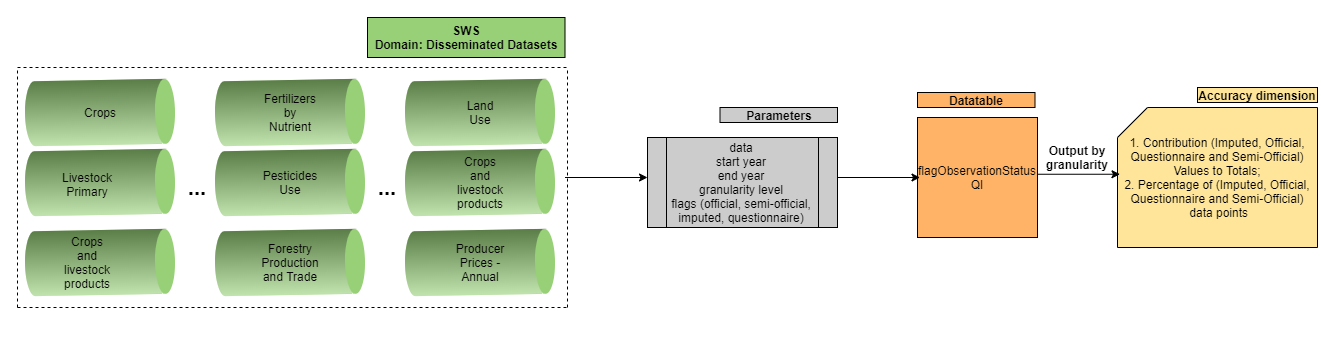
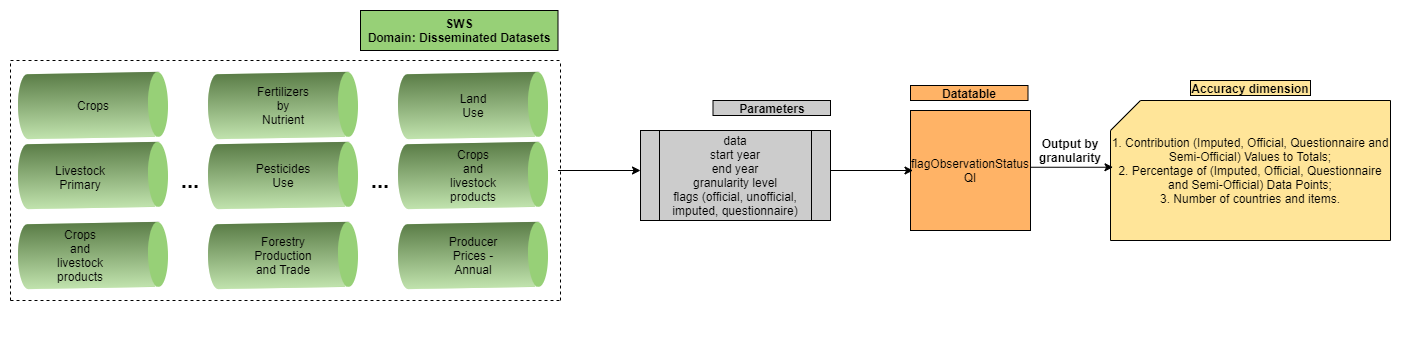
added/updated workflow for reliability/accuracy

Changed region(s): [[0.0, 0.0287, 1.0, 0.8883]]

diff --git a/docs/sws-resources.html b/docs/sws-resources.html
@@ -137,6 +137,7 @@
 <li class="chapter" data-level="" data-path="sws-resources.html"><a href="sws-resources.html#mapping-aggregate-groups---trade-crops-livestock"><i class="fa fa-check"></i>Mapping Aggregate Groups - Trade Crops Livestock</a></li>
 <li class="chapter" data-level="" data-path="sws-resources.html"><a href="sws-resources.html#mapping-aggregate-groups---trade-live-animals"><i class="fa fa-check"></i>Mapping Aggregate Groups - Trade Live Animals</a></li>
 <li class="chapter" data-level="" data-path="sws-resources.html"><a href="sws-resources.html#mapping-aggregate-groups---forestry-production-and-trade"><i class="fa fa-check"></i>Mapping Aggregate Groups - Forestry Production and Trade</a></li>
+<li class="chapter" data-level="" data-path="sws-resources.html"><a href="sws-resources.html#mapping-aggregate-groups---fisheries"><i class="fa fa-check"></i>Mapping Aggregate Groups - Fisheries</a></li>
 <li class="chapter" data-level="" data-path="sws-resources.html"><a href="sws-resources.html#mapping-aggregate-groups---fertilizers-nutrient"><i class="fa fa-check"></i>Mapping Aggregate Groups - Fertilizers Nutrient</a></li>
 <li class="chapter" data-level="" data-path="sws-resources.html"><a href="sws-resources.html#mapping-aggregate-groups---pesticides-trade"><i class="fa fa-check"></i>Mapping Aggregate Groups - Pesticides Trade</a></li>
 <li class="chapter" data-level="" data-path="sws-resources.html"><a href="sws-resources.html#mapping-aggregate-groups---pesticides-trade-1"><i class="fa fa-check"></i>Mapping Aggregate Groups - Pesticides Trade</a></li>
@@ -1033,6 +1034,79 @@ Var code in the SWS
 </tbody>
 </table>
 </div>
+<div id="mapping-aggregate-groups---fisheries" class="section level2 unnumbered">
+<h2 class="unnumbered">Mapping Aggregate Groups - Fisheries</h2>
+<ul>
+<li><strong>Datatable:</strong> <code>Mapping Aggregate Groups - Fisheries</code></li>
+<li><strong>Domain:</strong> Quality Indicators</li>
+<li><strong>Usage:</strong> A data table with the area and item groups of Fisheries.</li>
+</ul>
+<table class="table table" style="font-size: 14px; margin-left: auto; margin-right: auto; margin-left: auto; margin-right: auto;">
+<caption style="font-size: initial !important;">
+<span id="tab:mappingAggGroupsFisheries">Table 9: </span>Columns description of the data table: Mapping Aggregate Groups - Fisheries
+</caption>
+<thead>
+<tr>
+<th style="text-align:left;background-color: #5191c8 !important;position: sticky; top:0; background-color: #FFFFFF;">
+Field
+</th>
+<th style="text-align:left;background-color: #5191c8 !important;position: sticky; top:0; background-color: #FFFFFF;">
+Description
+</th>
+</tr>
+</thead>
+<tbody>
+<tr>
+<td style="text-align:left;">
+Domain Name
+</td>
+<td style="text-align:left;">
+Name of the domain
+</td>
+</tr>
+<tr>
+<td style="text-align:left;">
+Var Type
+</td>
+<td style="text-align:left;">
+Type of var: area or item
+</td>
+</tr>
+<tr>
+<td style="text-align:left;">
+Var Group Code
+</td>
+<td style="text-align:left;">
+Var group code in the dissemination platform
+</td>
+</tr>
+<tr>
+<td style="text-align:left;">
+Var Code
+</td>
+<td style="text-align:left;">
+Var code in the dissemination platform
+</td>
+</tr>
+<tr>
+<td style="text-align:left;">
+Var Group Name
+</td>
+<td style="text-align:left;">
+Var group name in the dissemination platform
+</td>
+</tr>
+<tr>
+<td style="text-align:left;">
+Var Name
+</td>
+<td style="text-align:left;">
+Var name in the dissemination platform
+</td>
+</tr>
+</tbody>
+</table>
+</div>
 <div id="mapping-aggregate-groups---fertilizers-nutrient" class="section level2 unnumbered">
 <h2 class="unnumbered">Mapping Aggregate Groups - Fertilizers Nutrient</h2>
 <ul>
@@ -1042,7 +1116,7 @@ Var code in the SWS
 </ul>
 <table class="table table" style="font-size: 14px; margin-left: auto; margin-right: auto; margin-left: auto; margin-right: auto;">
 <caption style="font-size: initial !important;">
-<span id="tab:mappingAggGroupsFertNutr">Table 9: </span>Columns description of the data table: Mapping Aggregate Groups - Fertilizers Nutrient
+<span id="tab:mappingAggGroupsFertNutr">Table 10: </span>Columns description of the data table: Mapping Aggregate Groups - Fertilizers Nutrient
 </caption>
 <thead>
 <tr>
@@ -1161,7 +1235,7 @@ Var code in the SWS
 </ul>
 <table class="table table" style="font-size: 14px; margin-left: auto; margin-right: auto; margin-left: auto; margin-right: auto;">
 <caption style="font-size: initial !important;">
-<span id="tab:mappingAggGroupsPestTrade">Table 10: </span>Columns description of the data table: Mapping Aggregate Groups - Pesticides Trade
+<span id="tab:mappingAggGroupsPestTrade">Table 11: </span>Columns description of the data table: Mapping Aggregate Groups - Pesticides Trade
 </caption>
 <thead>
 <tr>
@@ -1280,7 +1354,7 @@ Var code in the SWS
 </ul>
 <table class="table table" style="font-size: 14px; margin-left: auto; margin-right: auto; margin-left: auto; margin-right: auto;">
 <caption style="font-size: initial !important;">
-<span id="tab:mappingAggGroupsPestUse">Table 11: </span>Columns description of the data table: Mapping Aggregate Groups - Pesticides Use
+<span id="tab:mappingAggGroupsPestUse">Table 12: </span>Columns description of the data table: Mapping Aggregate Groups - Pesticides Use
 </caption>
 <thead>
 <tr>
@@ -1399,7 +1473,7 @@ Var code in the SWS
 </ul>
 <table class="table table" style="font-size: 14px; margin-left: auto; margin-right: auto; margin-left: auto; margin-right: auto;">
 <caption style="font-size: initial !important;">
-<span id="tab:mappingAggGroupsLandUse">Table 12: </span>Columns description of the data table: Mapping Aggregate Groups - Land Use
+<span id="tab:mappingAggGroupsLandUse">Table 13: </span>Columns description of the data table: Mapping Aggregate Groups - Land Use
 </caption>
 <thead>
 <tr>
@@ -1518,7 +1592,7 @@ Var code in the SWS
 </ul>
 <table class="table table" style="font-size: 14px; margin-left: auto; margin-right: auto; margin-left: auto; margin-right: auto;">
 <caption style="font-size: initial !important;">
-<span id="tab:mappingAggGroupsPrices">Table 13: </span>Columns description of the data table: Mapping Aggregate Groups - Prices
+<span id="tab:mappingAggGroupsPrices">Table 14: </span>Columns description of the data table: Mapping Aggregate Groups - Prices
 </caption>
 <thead>
 <tr>
@@ -1637,7 +1711,7 @@ Var code in the SWS
 </ul>
 <table class="table table" style="font-size: 14px; margin-left: auto; margin-right: auto; margin-left: auto; margin-right: auto;">
 <caption style="font-size: initial !important;">
-<span id="tab:flagObservationStatus">Table 14: </span>Columns description of the data table: flagObservationStatus - QI
+<span id="tab:flagObservationStatus">Table 15: </span>Columns description of the data table: flagObservationStatus - QI
 </caption>
 <thead>
 <tr>
@@ -1686,7 +1760,7 @@ Type of flag (e.g. official, imputed … )
 </ul>
 <table class="table table" style="font-size: 14px; margin-left: auto; margin-right: auto; margin-left: auto; margin-right: auto;">
 <caption style="font-size: initial !important;">
-<span id="tab:datasetCodeListQI">Table 15: </span>Columns description of the data table: Dataset Code List QI
+<span id="tab:datasetCodeListQI">Table 16: </span>Columns description of the data table: Dataset Code List QI
 </caption>
 <thead>
 <tr>
@@ -1783,7 +1857,7 @@ Quality Indicators name
 </ul>
 <table class="table table" style="font-size: 14px; margin-left: auto; margin-right: auto; margin-left: auto; margin-right: auto;">
 <caption style="font-size: initial !important;">
-<span id="tab:qiDimensions">Table 16: </span>Columns description of the data table: QI Dimensions
+<span id="tab:qiDimensions">Table 17: </span>Columns description of the data table: QI Dimensions
 </caption>
 <thead>
 <tr>

diff --git a/docs/faoswsQualityIndicators.html b/docs/faoswsQualityIndicators.html
@@ -137,6 +137,7 @@
 <li class="chapter" data-level="" data-path="sws-resources.html"><a href="sws-resources.html#mapping-aggregate-groups---trade-crops-livestock"><i class="fa fa-check"></i>Mapping Aggregate Groups - Trade Crops Livestock</a></li>
 <li class="chapter" data-level="" data-path="sws-resources.html"><a href="sws-resources.html#mapping-aggregate-groups---trade-live-animals"><i class="fa fa-check"></i>Mapping Aggregate Groups - Trade Live Animals</a></li>
 <li class="chapter" data-level="" data-path="sws-resources.html"><a href="sws-resources.html#mapping-aggregate-groups---forestry-production-and-trade"><i class="fa fa-check"></i>Mapping Aggregate Groups - Forestry Production and Trade</a></li>
+<li class="chapter" data-level="" data-path="sws-resources.html"><a href="sws-resources.html#mapping-aggregate-groups---fisheries"><i class="fa fa-check"></i>Mapping Aggregate Groups - Fisheries</a></li>
 <li class="chapter" data-level="" data-path="sws-resources.html"><a href="sws-resources.html#mapping-aggregate-groups---fertilizers-nutrient"><i class="fa fa-check"></i>Mapping Aggregate Groups - Fertilizers Nutrient</a></li>
 <li class="chapter" data-level="" data-path="sws-resources.html"><a href="sws-resources.html#mapping-aggregate-groups---pesticides-trade"><i class="fa fa-check"></i>Mapping Aggregate Groups - Pesticides Trade</a></li>
 <li class="chapter" data-level="" data-path="sws-resources.html"><a href="sws-resources.html#mapping-aggregate-groups---pesticides-trade-1"><i class="fa fa-check"></i>Mapping Aggregate Groups - Pesticides Trade</a></li>
@@ -190,6 +191,13 @@ Figure 4: Workflow of the function getAccuracy
 <div id="getreliability" class="section level3" number="3.1.2">
 <h3 number="3.1.2"><span class="header-section-number">3.1.2</span> <strong>getReliability</strong></h3>
 <p>Below you find the workflow of the R function <code>getReliability</code>.</p>
+<div class="figure" style="text-align: center"><span id="fig:unnamed-chunk-8"></span>
+<img src="images/getReliability.png" alt="Workflow of the function getReliability" width="100%" />
+<p class="caption">
+Figure 5: Workflow of the function getReliability
+</p>
+</div>
+<p><mark>It’s important to highlight that the reliability indicators can be calculated only if there are historical data.</mark></p>
 </div>
 </div>
 <div id="data-processing" class="section level2" number="3.2">

diff --git a/docs/QualityIndicatorsFramework.html b/docs/QualityIndicatorsFramework.html
@@ -137,6 +137,7 @@
 <li class="chapter" data-level="" data-path="sws-resources.html"><a href="sws-resources.html#mapping-aggregate-groups---trade-crops-livestock"><i class="fa fa-check"></i>Mapping Aggregate Groups - Trade Crops Livestock</a></li>
 <li class="chapter" data-level="" data-path="sws-resources.html"><a href="sws-resources.html#mapping-aggregate-groups---trade-live-animals"><i class="fa fa-check"></i>Mapping Aggregate Groups - Trade Live Animals</a></li>
 <li class="chapter" data-level="" data-path="sws-resources.html"><a href="sws-resources.html#mapping-aggregate-groups---forestry-production-and-trade"><i class="fa fa-check"></i>Mapping Aggregate Groups - Forestry Production and Trade</a></li>
+<li class="chapter" data-level="" data-path="sws-resources.html"><a href="sws-resources.html#mapping-aggregate-groups---fisheries"><i class="fa fa-check"></i>Mapping Aggregate Groups - Fisheries</a></li>
 <li class="chapter" data-level="" data-path="sws-resources.html"><a href="sws-resources.html#mapping-aggregate-groups---fertilizers-nutrient"><i class="fa fa-check"></i>Mapping Aggregate Groups - Fertilizers Nutrient</a></li>
 <li class="chapter" data-level="" data-path="sws-resources.html"><a href="sws-resources.html#mapping-aggregate-groups---pesticides-trade"><i class="fa fa-check"></i>Mapping Aggregate Groups - Pesticides Trade</a></li>
 <li class="chapter" data-level="" data-path="sws-resources.html"><a href="sws-resources.html#mapping-aggregate-groups---pesticides-trade-1"><i class="fa fa-check"></i>Mapping Aggregate Groups - Pesticides Trade</a></li>

diff --git a/docs/appendix-appendix.html b/docs/appendix-appendix.html
@@ -137,6 +137,7 @@
 <li class="chapter" data-level="" data-path="sws-resources.html"><a href="sws-resources.html#mapping-aggregate-groups---trade-crops-livestock"><i class="fa fa-check"></i>Mapping Aggregate Groups - Trade Crops Livestock</a></li>
 <li class="chapter" data-level="" data-path="sws-resources.html"><a href="sws-resources.html#mapping-aggregate-groups---trade-live-animals"><i class="fa fa-check"></i>Mapping Aggregate Groups - Trade Live Animals</a></li>
 <li class="chapter" data-level="" data-path="sws-resources.html"><a href="sws-resources.html#mapping-aggregate-groups---forestry-production-and-trade"><i class="fa fa-check"></i>Mapping Aggregate Groups - Forestry Production and Trade</a></li>
+<li class="chapter" data-level="" data-path="sws-resources.html"><a href="sws-resources.html#mapping-aggregate-groups---fisheries"><i class="fa fa-check"></i>Mapping Aggregate Groups - Fisheries</a></li>
 <li class="chapter" data-level="" data-path="sws-resources.html"><a href="sws-resources.html#mapping-aggregate-groups---fertilizers-nutrient"><i class="fa fa-check"></i>Mapping Aggregate Groups - Fertilizers Nutrient</a></li>
 <li class="chapter" data-level="" data-path="sws-resources.html"><a href="sws-resources.html#mapping-aggregate-groups---pesticides-trade"><i class="fa fa-check"></i>Mapping Aggregate Groups - Pesticides Trade</a></li>
 <li class="chapter" data-level="" data-path="sws-resources.html"><a href="sws-resources.html#mapping-aggregate-groups---pesticides-trade-1"><i class="fa fa-check"></i>Mapping Aggregate Groups - Pesticides Trade</a></li>

diff --git a/docs/index.html b/docs/index.html
@@ -137,6 +137,7 @@
 <li class="chapter" data-level="" data-path="sws-resources.html"><a href="sws-resources.html#mapping-aggregate-groups---trade-crops-livestock"><i class="fa fa-check"></i>Mapping Aggregate Groups - Trade Crops Livestock</a></li>
 <li class="chapter" data-level="" data-path="sws-resources.html"><a href="sws-resources.html#mapping-aggregate-groups---trade-live-animals"><i class="fa fa-check"></i>Mapping Aggregate Groups - Trade Live Animals</a></li>
 <li class="chapter" data-level="" data-path="sws-resources.html"><a href="sws-resources.html#mapping-aggregate-groups---forestry-production-and-trade"><i class="fa fa-check"></i>Mapping Aggregate Groups - Forestry Production and Trade</a></li>
+<li class="chapter" data-level="" data-path="sws-resources.html"><a href="sws-resources.html#mapping-aggregate-groups---fisheries"><i class="fa fa-check"></i>Mapping Aggregate Groups - Fisheries</a></li>
 <li class="chapter" data-level="" data-path="sws-resources.html"><a href="sws-resources.html#mapping-aggregate-groups---fertilizers-nutrient"><i class="fa fa-check"></i>Mapping Aggregate Groups - Fertilizers Nutrient</a></li>
 <li class="chapter" data-level="" data-path="sws-resources.html"><a href="sws-resources.html#mapping-aggregate-groups---pesticides-trade"><i class="fa fa-check"></i>Mapping Aggregate Groups - Pesticides Trade</a></li>
 <li class="chapter" data-level="" data-path="sws-resources.html"><a href="sws-resources.html#mapping-aggregate-groups---pesticides-trade-1"><i class="fa fa-check"></i>Mapping Aggregate Groups - Pesticides Trade</a></li>

diff --git a/docs/preface.html b/docs/preface.html
@@ -137,6 +137,7 @@
 <li class="chapter" data-level="" data-path="sws-resources.html"><a href="sws-resources.html#mapping-aggregate-groups---trade-crops-livestock"><i class="fa fa-check"></i>Mapping Aggregate Groups - Trade Crops Livestock</a></li>
 <li class="chapter" data-level="" data-path="sws-resources.html"><a href="sws-resources.html#mapping-aggregate-groups---trade-live-animals"><i class="fa fa-check"></i>Mapping Aggregate Groups - Trade Live Animals</a></li>
 <li class="chapter" data-level="" data-path="sws-resources.html"><a href="sws-resources.html#mapping-aggregate-groups---forestry-production-and-trade"><i class="fa fa-check"></i>Mapping Aggregate Groups - Forestry Production and Trade</a></li>
+<li class="chapter" data-level="" data-path="sws-resources.html"><a href="sws-resources.html#mapping-aggregate-groups---fisheries"><i class="fa fa-check"></i>Mapping Aggregate Groups - Fisheries</a></li>
 <li class="chapter" data-level="" data-path="sws-resources.html"><a href="sws-resources.html#mapping-aggregate-groups---fertilizers-nutrient"><i class="fa fa-check"></i>Mapping Aggregate Groups - Fertilizers Nutrient</a></li>
 <li class="chapter" data-level="" data-path="sws-resources.html"><a href="sws-resources.html#mapping-aggregate-groups---pesticides-trade"><i class="fa fa-check"></i>Mapping Aggregate Groups - Pesticides Trade</a></li>
 <li class="chapter" data-level="" data-path="sws-resources.html"><a href="sws-resources.html#mapping-aggregate-groups---pesticides-trade-1"><i class="fa fa-check"></i>Mapping Aggregate Groups - Pesticides Trade</a></li>

diff --git a/docs/qualityIndicators.html b/docs/qualityIndicators.html
@@ -137,6 +137,7 @@
 <li class="chapter" data-level="" data-path="sws-resources.html"><a href="sws-resources.html#mapping-aggregate-groups---trade-crops-livestock"><i class="fa fa-check"></i>Mapping Aggregate Groups - Trade Crops Livestock</a></li>
 <li class="chapter" data-level="" data-path="sws-resources.html"><a href="sws-resources.html#mapping-aggregate-groups---trade-live-animals"><i class="fa fa-check"></i>Mapping Aggregate Groups - Trade Live Animals</a></li>
 <li class="chapter" data-level="" data-path="sws-resources.html"><a href="sws-resources.html#mapping-aggregate-groups---forestry-production-and-trade"><i class="fa fa-check"></i>Mapping Aggregate Groups - Forestry Production and Trade</a></li>
+<li class="chapter" data-level="" data-path="sws-resources.html"><a href="sws-resources.html#mapping-aggregate-groups---fisheries"><i class="fa fa-check"></i>Mapping Aggregate Groups - Fisheries</a></li>
 <li class="chapter" data-level="" data-path="sws-resources.html"><a href="sws-resources.html#mapping-aggregate-groups---fertilizers-nutrient"><i class="fa fa-check"></i>Mapping Aggregate Groups - Fertilizers Nutrient</a></li>
 <li class="chapter" data-level="" data-path="sws-resources.html"><a href="sws-resources.html#mapping-aggregate-groups---pesticides-trade"><i class="fa fa-check"></i>Mapping Aggregate Groups - Pesticides Trade</a></li>
 <li class="chapter" data-level="" data-path="sws-resources.html"><a href="sws-resources.html#mapping-aggregate-groups---pesticides-trade-1"><i class="fa fa-check"></i>Mapping Aggregate Groups - Pesticides Trade</a></li>

diff --git a/docs/qualityIndicatorsApp.html b/docs/qualityIndicatorsApp.html
@@ -137,6 +137,7 @@
 <li class="chapter" data-level="" data-path="sws-resources.html"><a href="sws-resources.html#mapping-aggregate-groups---trade-crops-livestock"><i class="fa fa-check"></i>Mapping Aggregate Groups - Trade Crops Livestock</a></li>
 <li class="chapter" data-level="" data-path="sws-resources.html"><a href="sws-resources.html#mapping-aggregate-groups---trade-live-animals"><i class="fa fa-check"></i>Mapping Aggregate Groups - Trade Live Animals</a></li>
 <li class="chapter" data-level="" data-path="sws-resources.html"><a href="sws-resources.html#mapping-aggregate-groups---forestry-production-and-trade"><i class="fa fa-check"></i>Mapping Aggregate Groups - Forestry Production and Trade</a></li>
+<li class="chapter" data-level="" data-path="sws-resources.html"><a href="sws-resources.html#mapping-aggregate-groups---fisheries"><i class="fa fa-check"></i>Mapping Aggregate Groups - Fisheries</a></li>
 <li class="chapter" data-level="" data-path="sws-resources.html"><a href="sws-resources.html#mapping-aggregate-groups---fertilizers-nutrient"><i class="fa fa-check"></i>Mapping Aggregate Groups - Fertilizers Nutrient</a></li>
 <li class="chapter" data-level="" data-path="sws-resources.html"><a href="sws-resources.html#mapping-aggregate-groups---pesticides-trade"><i class="fa fa-check"></i>Mapping Aggregate Groups - Pesticides Trade</a></li>
 <li class="chapter" data-level="" data-path="sws-resources.html"><a href="sws-resources.html#mapping-aggregate-groups---pesticides-trade-1"><i class="fa fa-check"></i>Mapping Aggregate Groups - Pesticides Trade</a></li>
